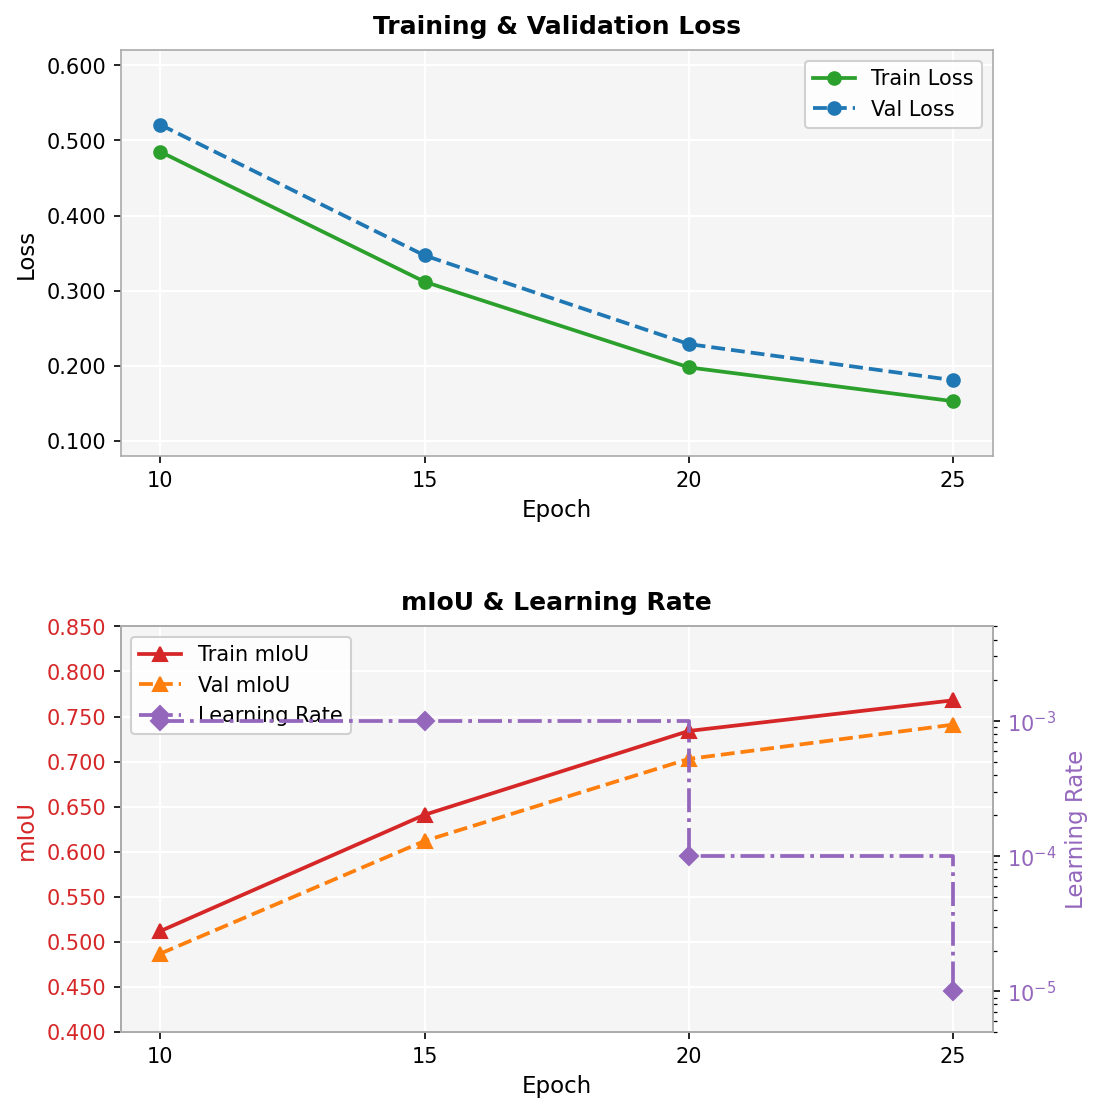
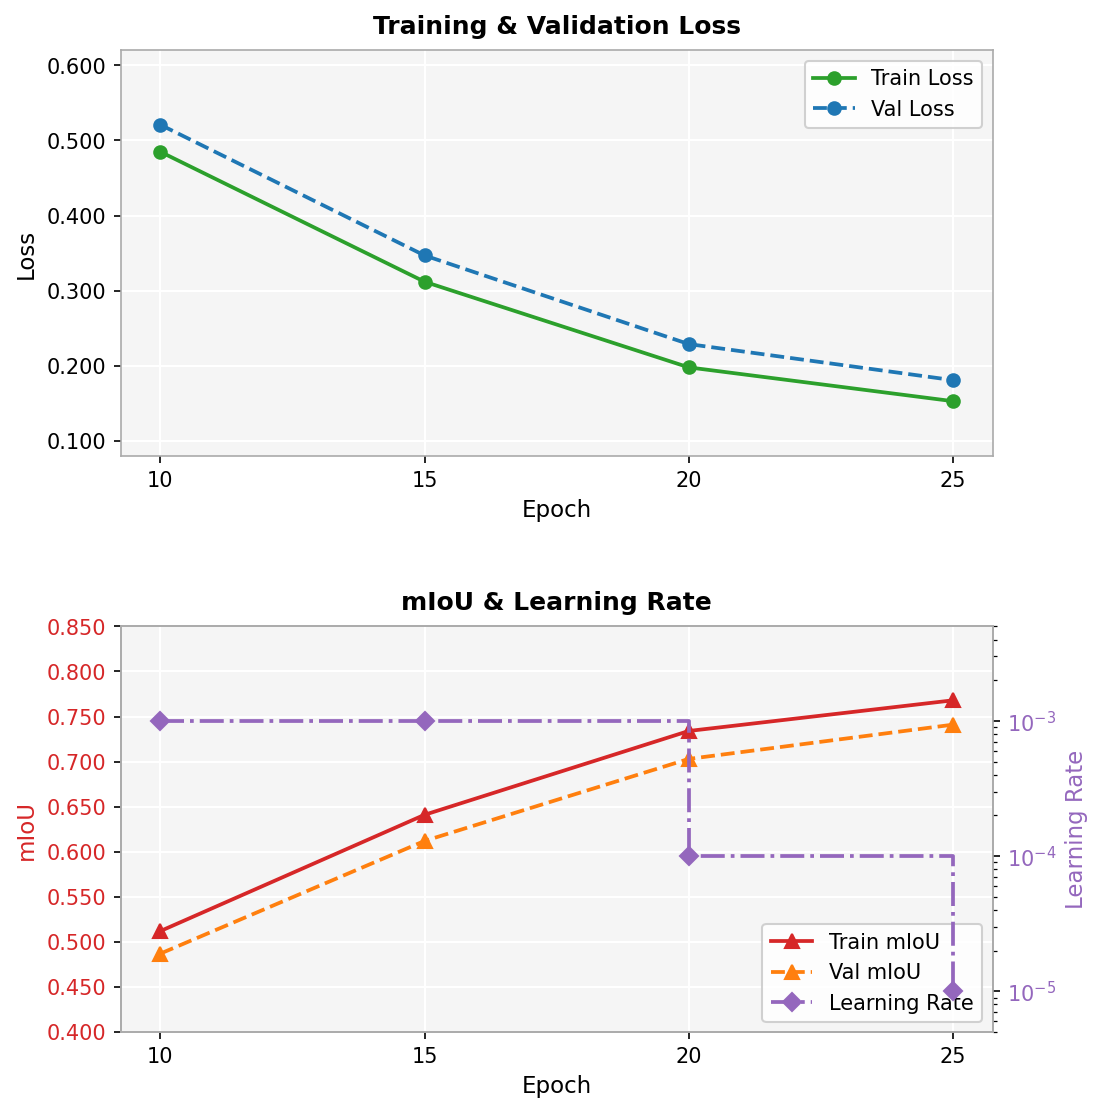
Fix legend overlap with LR line in lower panel — move to lower right
Agent-Logs-Url: https://github.com/HuiMeng6/segmentation_models.pytorch/sessions/898abcd6-e893-4e0a-a620-638385265bf6

Changed region(s): [[0.6788, 0.8248, 0.8947, 0.9164], [0.1851, 0.5804, 0.3085, 0.6721], [0.1234, 0.5804, 0.1543, 0.6721]]

diff --git a/pics/generate_training_visualization.py b/pics/generate_training_visualization.py
@@ -90,10 +90,11 @@ for spine in ax4.spines.values():
     spine.set_linewidth(0.8)
     spine.set_color("#AAAAAA")
 
-# Combined legend at top of lower panel
+# Combined legend — placed at lower right to avoid overlap with the LR line
+# (LR steps down to its minimum at epoch 25, and mIoU lines rise above this region)
 handles = [l3, l4, l5]
-ax3.legend(handles=handles, loc="upper left", fontsize=10,
-           framealpha=0.9, edgecolor="#CCCCCC")
+ax3.legend(handles=handles, loc="lower right", fontsize=10,
+           framealpha=0.9, edgecolor="#CCCCCC", ncol=1)
 
 # ── Save ──────────────────────────────────────────────────────────────────────
 out_path = "/home/runner/work/segmentation_models.pytorch/segmentation_models.pytorch/pics/training_visualization.png"
